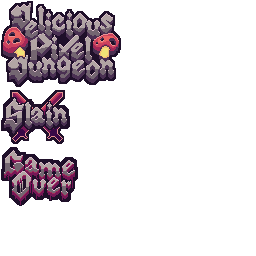
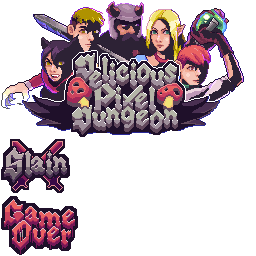
Splash images and title screen updates

diff --git a/core/src/main/java/com/shatteredpixel/shatteredpixeldungeon/scenes/TitleScene.java b/core/src/main/java/com/shatteredpixel/shatteredpixeldungeon/scenes/TitleScene.java
@@ -42,6 +42,7 @@ import com.shatteredpixel.shatteredpixeldungeon.ui.StyledButton;
 import com.shatteredpixel.shatteredpixeldungeon.ui.Window;
 import com.shatteredpixel.shatteredpixeldungeon.windows.WndOptions;
 import com.shatteredpixel.shatteredpixeldungeon.windows.WndSettings;
+import com.watabou.gltextures.TextureCache;
 import com.watabou.glwrap.Blending;
 import com.watabou.noosa.BitmapText;
 import com.watabou.noosa.Camera;
@@ -53,6 +54,8 @@ import com.watabou.utils.DeviceCompat;
 import java.util.Date;
 
 public class TitleScene extends PixelScene {
+
+	private Image background;
 	
 	@Override
 	public void create() {
@@ -68,6 +71,23 @@ public class TitleScene extends PixelScene {
 		
 		int w = Camera.main.width;
 		int h = Camera.main.height;
+
+		// Adding background
+		background = new Image(TextureCache.createSolid(0xFF1f102a), 0, 0, 444, 250);
+		//background.scale.set(Camera.main.height/background.height);
+		background.x = (w - background.width())/2f;
+		//background.y = (h - background.height())/2f;
+		PixelScene.align(background);
+
+		try {
+			background.texture("splashes/title.png");
+		} catch (Exception e){
+			Game.reportException(e);
+			background.texture(TextureCache.createSolid(0xFF1f102a));
+			background.frame(0, 0, 444, 250);
+		}
+
+		//add(background);
 		
 		Archs archs = new Archs();
 		archs.setSize( w, h );
@@ -79,7 +99,7 @@ public class TitleScene extends PixelScene {
 		float topRegion = Math.max(title.height - 6, h*0.45f);
 
 		title.x = (w - title.width()) / 2f;
-		title.y = 2 + (topRegion - title.height()) / 2f;
+		title.y = 10 + (topRegion - title.height()) / 2f;
 
 		align(title);
 /*
@@ -180,17 +200,21 @@ public class TitleScene extends PixelScene {
 		btnAbout.icon(Icons.get(Icons.SHPX));
 		add(btnAbout);
 
-		// get values from screen size
-		final int BTN_HEIGHT = 24;
-		int GAP = (int)(h - topRegion - (landscape() ? 3 : 4)*BTN_HEIGHT)/3;
-		GAP /= landscape() ? 3 : 5;
-		GAP = Math.max(GAP, 2);
+		final int buttonHeight = 24;
+		int buttonWidth = 60;
+		int GAP = 3;
+		int bottonPadding = landscape() ? 30 : 60;
 
-		// buttons placements and size
-		btnPlay.setRect(title.x, Camera.main.height - 100, title.width(), BTN_HEIGHT);
-		//btnBadges.setRect(btnPlay.left(), btnPlay.bottom()+ GAP, btnPlay.width(), BTN_HEIGHT);
-		btnSettings.setRect(btnPlay.left(), btnPlay.bottom()+GAP, (btnPlay.width() / 2) - 1, BTN_HEIGHT);
-		btnAbout.setRect(btnSettings.right()+2, btnPlay.bottom()+GAP, btnSettings.width(), BTN_HEIGHT);
+		if(landscape()){
+			btnPlay.setRect((Camera.main.width - buttonWidth*2) / 2, Camera.main.height - bottonPadding, buttonWidth*2, buttonHeight);
+
+			btnSettings.setRect(GAP, GAP, buttonWidth, buttonHeight);
+			btnAbout.setRect(Camera.main.width - (buttonWidth + GAP), GAP, buttonWidth, buttonHeight);
+		}else{
+			btnSettings.setRect((Camera.main.width - (buttonWidth*2 + GAP)) / 2, Camera.main.height - bottonPadding, buttonWidth, buttonHeight);
+			btnAbout.setRect(btnSettings.right() + GAP, btnSettings.top(), buttonWidth, buttonHeight);
+			btnPlay.setRect(btnSettings.left(), btnSettings.top() - (buttonHeight + GAP), buttonWidth*2, buttonHeight);
+		}
 
 		BitmapText version = new BitmapText( "v" + Game.version, pixelFont);
 		version.measure();

diff --git a/core/src/main/java/com/shatteredpixel/shatteredpixeldungeon/effects/BannerSprites.java b/core/src/main/java/com/shatteredpixel/shatteredpixeldungeon/effects/BannerSprites.java
@@ -38,19 +38,19 @@ public class BannerSprites {
 		Image icon = new Image( Assets.Interfaces.BANNERS );
 		switch (type) {
 			case PIXEL_DUNGEON:
-				icon.frame( icon.texture.uvRect( 0, 0, 122, 88 ) );
+				icon.frame( icon.texture.uvRect( 0, 0, 245, 135 ) );
 				break;
 			case BOSS_SLAIN:
-				icon.frame( icon.texture.uvRect( 0, 89, 71, 144 ) );
+				icon.frame( icon.texture.uvRect( 0, 135, 71, 191 ) );
 				break;
 			case GAME_OVER:
-				icon.frame( icon.texture.uvRect( 0, 146, 79, 207 ) );
+				icon.frame( icon.texture.uvRect( 0, 191, 79, 252 ) );
 				break;
 			case SELECT_YOUR_HERO:
-				icon.frame( icon.texture.uvRect( 0, 160, 128, 181 ) );
+				icon.frame( icon.texture.uvRect( 0, 0, 0, 0 ) );
 				break;
 			case PIXEL_DUNGEON_SIGNS:
-				icon.frame( icon.texture.uvRect( 132, 0, 256, 90 ) );
+				icon.frame( icon.texture.uvRect( 0, 0, 0, 0 ) );
 				break;
 		}
 		return icon;
